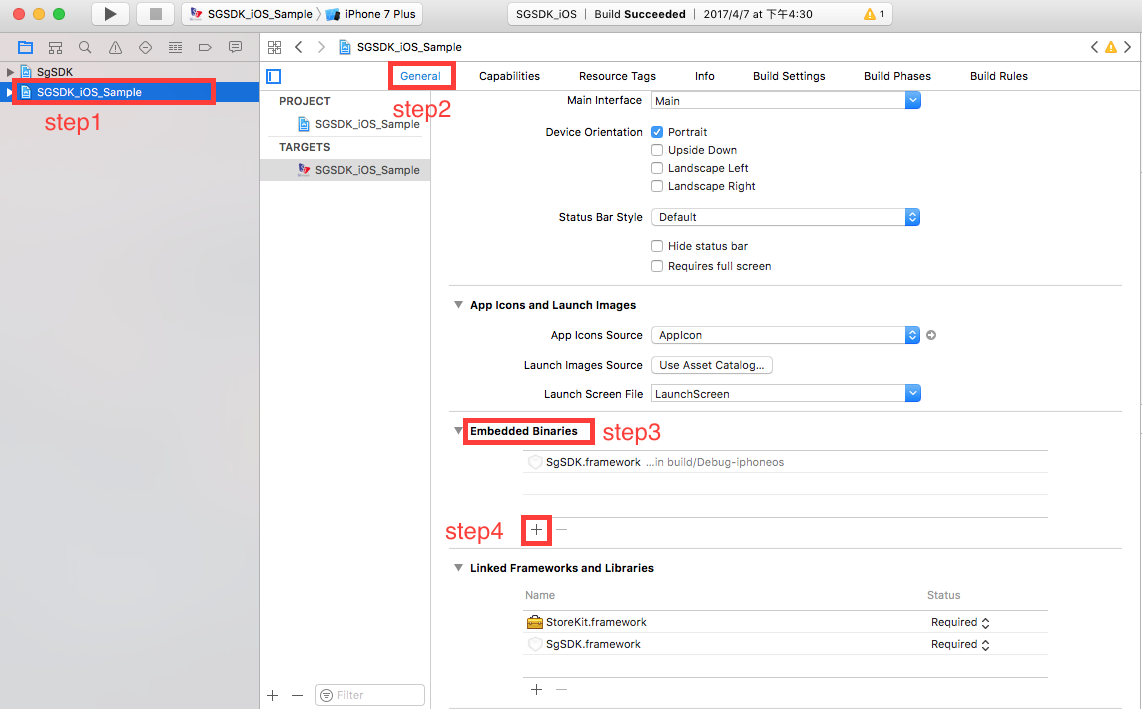
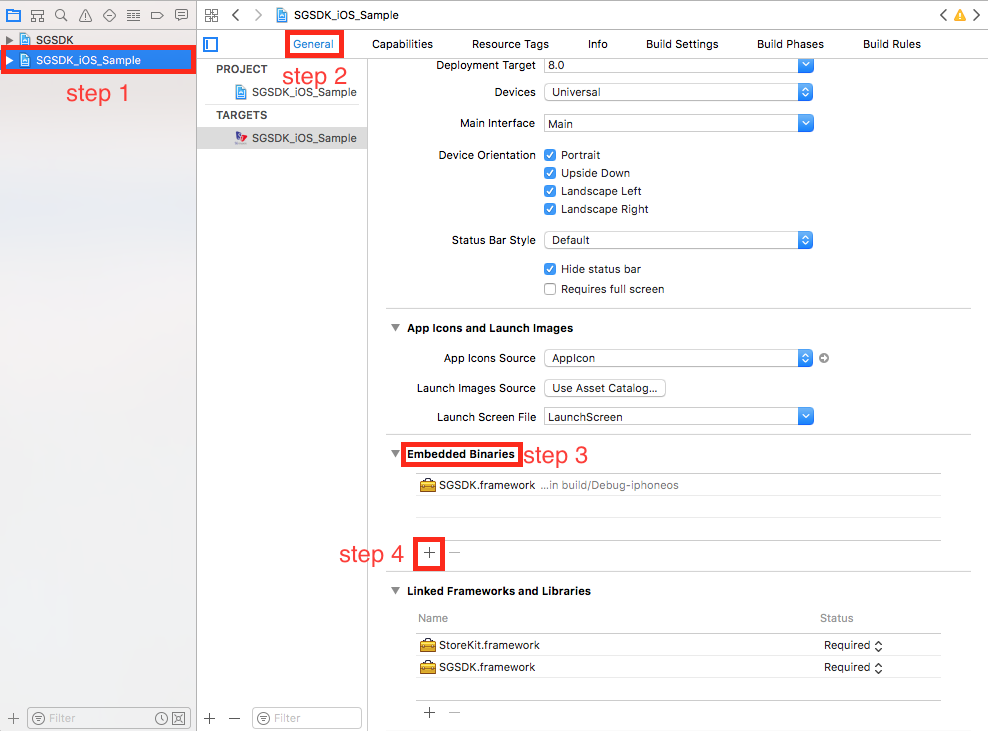
OpenId型態換成string
OpenId型態換成string
有照到SgSDK的圖片換掉

diff --git a/views/code/swift-getOpenId.html b/views/code/swift-getOpenId.html
@@ -13,7 +13,7 @@
                     style="color: #7D9029">Instance</span><span style="color: #666666">.</span><span
                     style="color: #7D9029">GetOpenID</span><span style="color: #666666">()</span> <span
                     style="color: #666666">{</span>
-    <span style="color: #408080; font-style: italic">//print(&quot;\(msg)&quot;)</span>
+    <span style="color: #408080; font-style: italic">//print(&quot;msg&quot;)</span>
 <span style="color: #666666">}</span> <span style="color: #008000; font-weight: bold">else</span> <span
                         style="color: #666666">{</span>
     <span style="color: #408080; font-style: italic">//print(&quot;Please login.&quot;)</span>
